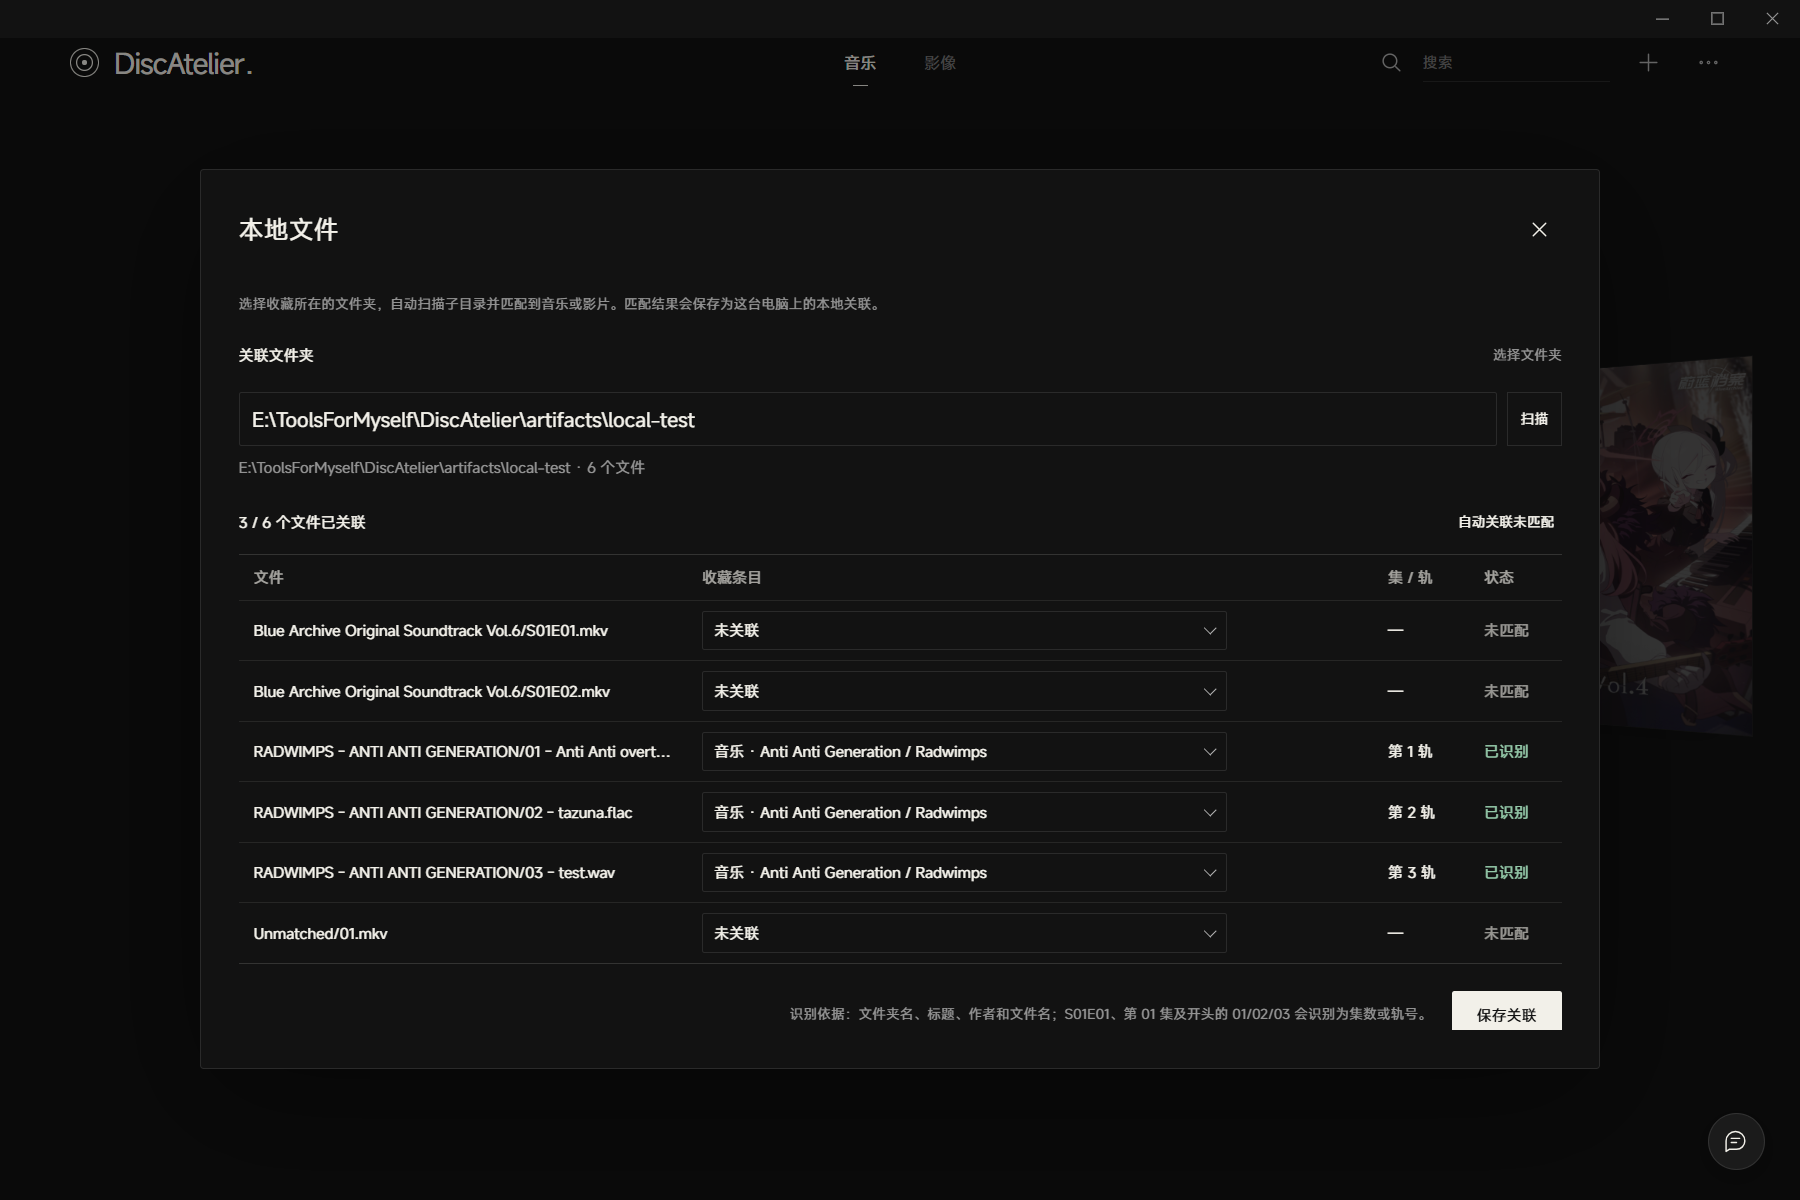
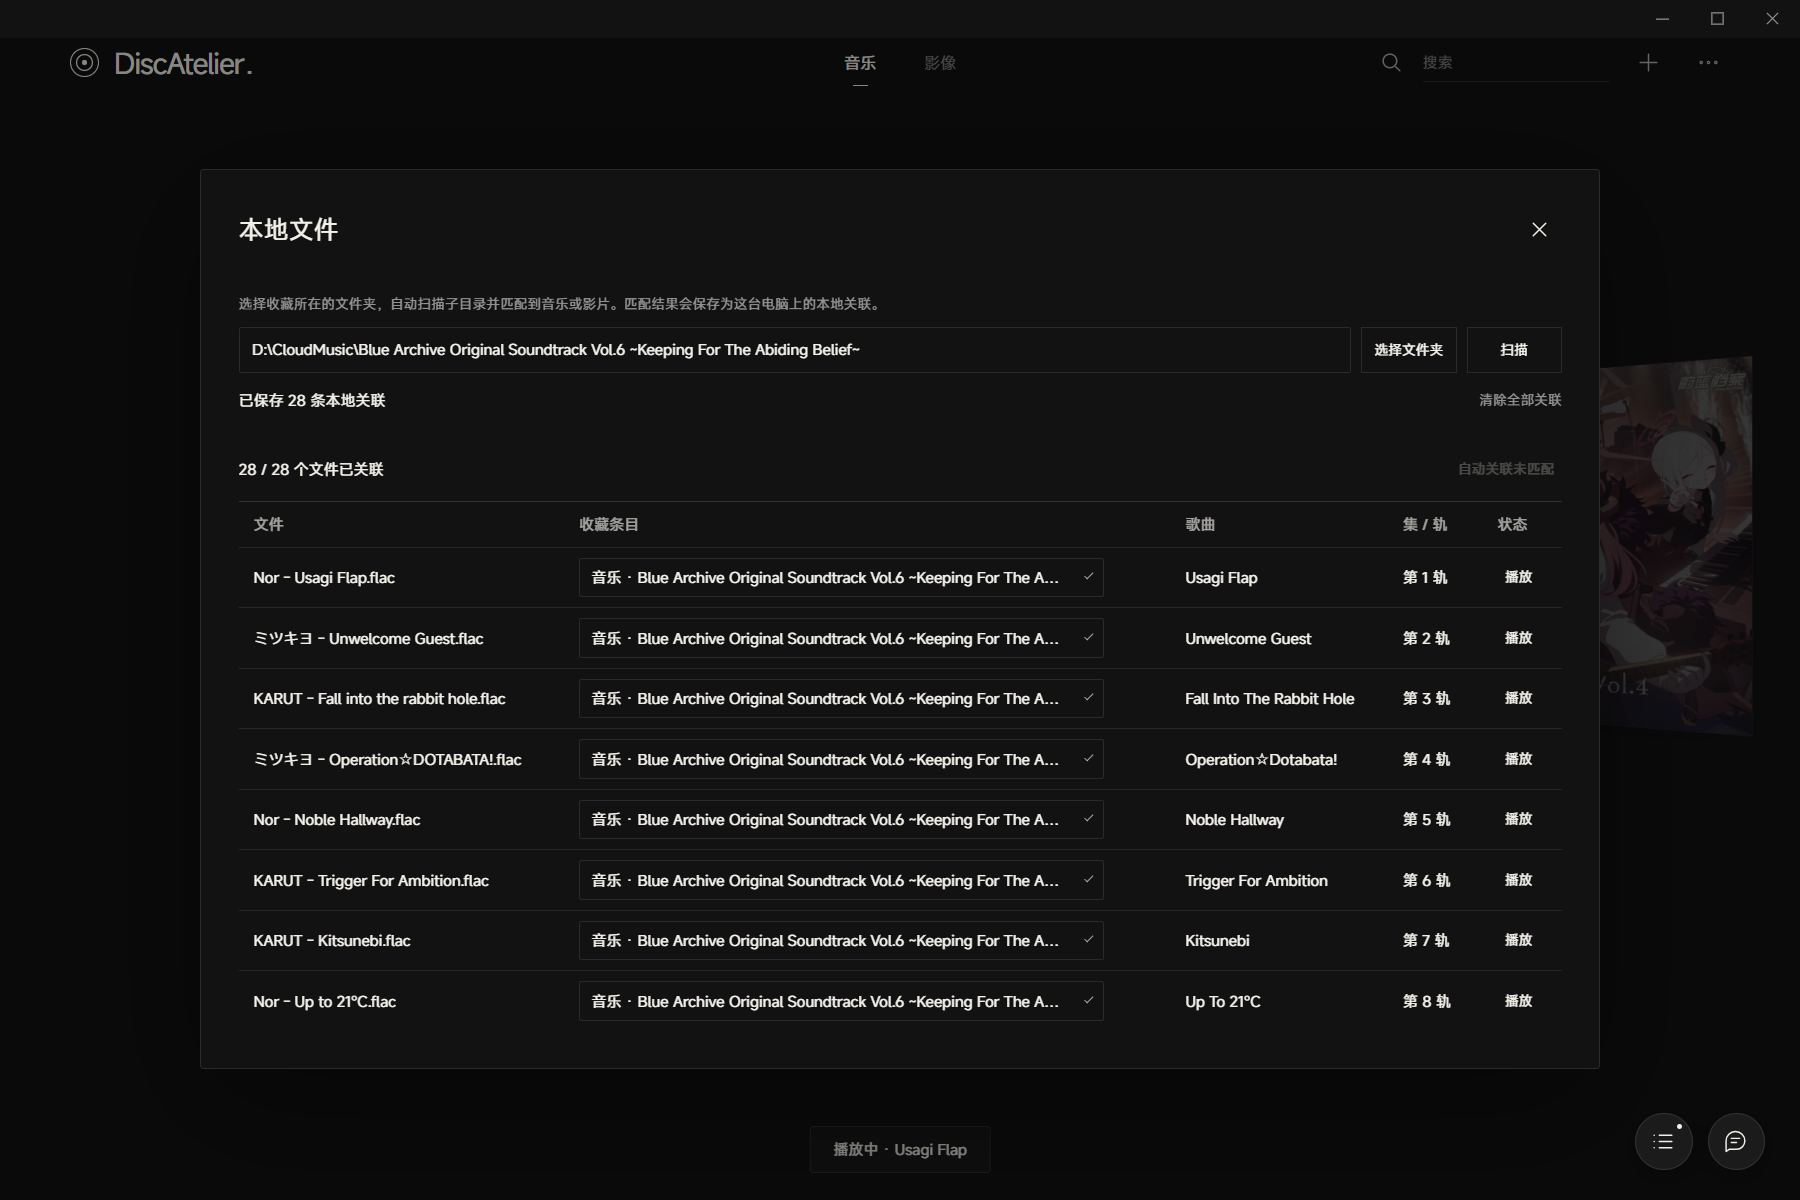
Show song titles in album order and restore detail

diff --git a/apps/desktop/src/local/LocalItemPanel.tsx b/apps/desktop/src/local/LocalItemPanel.tsx
@@ -26,6 +26,18 @@ interface Row {
   title: string;
 }
 
+function savedTitle(binding: Binding) {
+  const parts = binding.label.split(' · ');
+  return parts.length > 2 ? parts[parts.length - 1] : '';
+}
+
+function sortRows(values: Row[]) {
+  return [...values].sort((left, right) => {
+    const number = (Number(left.number) || Number.MAX_SAFE_INTEGER) - (Number(right.number) || Number.MAX_SAFE_INTEGER);
+    return number || left.file.relativePath.localeCompare(right.file.relativePath);
+  });
+}
+
 function matchRow(item: LibraryCopy, file: ScannedFile, tracks: TrackTitle[]) {
   if (item.edition.categoryId === 'music' || isAudio(file)) {
     const matched = matchTrack(file.name, tracks);
@@ -71,13 +83,14 @@ export function LocalItemPanel({ item, onClose }: { item: LibraryCopy; onClose()
   }, [item.editionId, item.edition.categoryId]);
   useEffect(() => {
     if (!tracks.length) return;
-    setRows(current => current.map(row => {
+    setRows(current => sortRows(current.map(row => {
       const matched = matchRow(item, row.file, tracks);
       return { ...row, number: row.number || matched.number, title: row.title || matched.title };
-    }));
+    })));
   }, [tracks, item]);
 
-  const own = all.filter(binding => binding.copyId === item.id);
+  const own = all.filter(binding => binding.copyId === item.id)
+    .sort((left, right) => (left.track || Number.MAX_SAFE_INTEGER) - (right.track || Number.MAX_SAFE_INTEGER));
 
   async function scan(path: string) {
     if (!path.trim()) return;
@@ -85,7 +98,7 @@ export function LocalItemPanel({ item, onClose }: { item: LibraryCopy; onClose()
     try {
       const scanned = await invoke<ScannedFile[]>('local_files_scan', { folder: path });
       setFiles(scanned);
-      setRows(scanned.map(file => ({ file, ...matchRow(item, file, tracks) })));
+      setRows(sortRows(scanned.map(file => ({ file, ...matchRow(item, file, tracks) }))));
       if (!scanned.length) setError('这个文件夹里没有找到支持的音视频文件。');
     } catch (cause) {
       setError(cause instanceof Error ? cause.message : String(cause));
@@ -140,7 +153,7 @@ export function LocalItemPanel({ item, onClose }: { item: LibraryCopy; onClose()
   return <Modal title={`本地文件 · ${item.edition.title}`} onClose={onClose} wide busy={busy} className="local-files-panel">
     <div className="local-files-settings">
       <p className="setting-hint">这个文件夹只关联到当前收藏。每个文件可以单独填写集数或轨号；保存后从这里直接播放。</p>
-      <FolderPicker value={folder} onChange={setFolder} busy={busy} count={files.length}
+      <FolderPicker value={folder} onChange={setFolder} busy={busy}
         onBrowse={() => void chooseFolder()} onScan={() => void scan(folder)}/>
     </div>
     {error && <p className="form-error" role="alert">{error}</p>}
@@ -151,24 +164,23 @@ export function LocalItemPanel({ item, onClose }: { item: LibraryCopy; onClose()
         const next = all.filter(binding => binding.copyId !== item.id);
         void invoke('local_files_save', { bindings: next }).then(() => setAll(next)).catch(cause => setError(cause instanceof Error ? cause.message : String(cause)));
       }}>清除本收藏关联</button></div>
-      <div className="local-files-table-wrap"><table className="local-files-table"><thead><tr><th>文件</th><th>位置</th><th>操作</th></tr></thead><tbody>
+      <div className="local-files-table-wrap"><table className="local-files-table"><thead><tr><th>文件</th><th>位置</th><th>歌曲</th><th>操作</th></tr></thead><tbody>
         {own.map(binding => <tr key={binding.path}><td title={binding.path}><span>{binding.path.split(/[\\/]/).pop()}</span></td>
           <td>{binding.episode ? `第 ${binding.episode} 集` : binding.track ? `第 ${binding.track} 轨` : '—'}</td>
+          <td><span className="local-track-title">{savedTitle(binding) || '—'}</span></td>
           <td><button type="button" className="text-button" disabled={busy} onClick={() => void play(binding.path)}>播放</button></td></tr>)}
       </tbody></table></div>
     </>}
     {!!files.length && <>
       <div className="local-files-summary"><span>{rows.length} 个文件将关联到当前收藏</span></div>
-      <div className="local-files-table-wrap"><table className="local-files-table"><thead><tr><th>文件</th><th>{item.edition.categoryId === 'video' ? '集数' : '轨号 · 匹配曲目'}</th><th>操作</th></tr></thead><tbody>
+      <div className="local-files-table-wrap"><table className="local-files-table"><thead><tr><th>文件</th><th>{item.edition.categoryId === 'video' ? '集数' : '轨号'}</th><th>关联歌曲</th><th>操作</th></tr></thead><tbody>
         {rows.map((row, index) => <tr key={row.file.path}>
           <td title={row.file.relativePath}><span>{row.file.relativePath}</span></td>
-          <td><div className="local-track-cell">
-            <input type="number" min="1" max="9999" aria-label={`${row.file.name} 的${item.edition.categoryId === 'video' ? '集数' : '轨号'}`} value={row.number}
-              onChange={event => setRows(current => current.map((value, position) => position === index ? { ...value, number: event.target.value } : value))}/>
-            {item.edition.categoryId === 'music' && (row.title
-              ? <span className="local-track-title" title={row.title}>{row.title}</span>
-              : <span className={row.number ? 'local-track-manual' : 'local-files-miss'}>{row.number ? '手动填写' : '未匹配到曲目'}</span>)}
-          </div></td>
+          <td><input type="number" min="1" max="9999" aria-label={`${row.file.name} 的${item.edition.categoryId === 'video' ? '集数' : '轨号'}`} value={row.number}
+            onChange={event => setRows(current => current.map((value, position) => position === index ? { ...value, number: event.target.value } : value))}/></td>
+          <td>{item.edition.categoryId === 'music' && row.title
+            ? <span className="local-track-title" title={row.title}>{row.title}</span>
+            : <span className={row.number ? 'local-track-manual' : 'local-files-miss'}>{row.number ? '手动填写' : '未匹配到曲目'}</span>}</td>
           <td><button type="button" className="text-button" disabled={busy} onClick={() => setRows(current => current.filter((_, position) => position !== index))}>移除</button></td>
         </tr>)}
       </tbody></table></div>

diff --git a/apps/desktop/src/local/LocalFilesPanel.tsx b/apps/desktop/src/local/LocalFilesPanel.tsx
@@ -76,13 +76,26 @@ export function LocalFilesPanel({ onClose }: { onClose(): void }) {
     return { number: parseTrack(file.name), title: '' };
   }
 
+  function sortRows(values: Row[]) {
+    return [...values].sort((left, right) => {
+      if (!left.copyId || !right.copyId) {
+        if (left.copyId) return -1;
+        if (right.copyId) return 1;
+        return left.file.relativePath.localeCompare(right.file.relativePath);
+      }
+      const album = items.findIndex(item => item.id === left.copyId) - items.findIndex(item => item.id === right.copyId);
+      const track = (left.track || left.episode || Number.MAX_SAFE_INTEGER) - (right.track || right.episode || Number.MAX_SAFE_INTEGER);
+      return album || track || left.file.relativePath.localeCompare(right.file.relativePath);
+    });
+  }
+
   function propose(scanned: ScannedFile[]) {
-    setRows(scanned.map(file => {
+    setRows(sortRows(scanned.map(file => {
       const item = chooseItem(items, file, false, trackTitles);
       const episode = item && item.edition.categoryId === 'video' ? parseEpisode(file.name) : null;
       const track = item && item.edition.categoryId === 'music' ? trackFor(item.id, file) : { number: null, title: '' };
       return { file, copyId: item?.id || '', episode, track: track.number, trackTitle: track.title, matched: !!item };
-    }));
+    })));
   }
 
   async function scan(path: string) {
@@ -111,6 +124,10 @@ export function LocalFilesPanel({ onClose }: { onClose(): void }) {
         track: item.edition.categoryId === 'music' ? trackFor(item.id, row.file).number : null,
         trackTitle: item.edition.categoryId === 'music' ? trackFor(item.id, row.file).title : '',
       };
+    }).sort((left, right) => {
+      if (!left.copyId || !right.copyId) return left.copyId ? -1 : right.copyId ? 1 : 0;
+      const album = items.findIndex(item => item.id === left.copyId) - items.findIndex(item => item.id === right.copyId);
+      return album || (left.track || left.episode || Number.MAX_SAFE_INTEGER) - (right.track || right.episode || Number.MAX_SAFE_INTEGER);
     }));
   }, [trackTitles, files, items]);
 
@@ -151,7 +168,7 @@ export function LocalFilesPanel({ onClose }: { onClose(): void }) {
   }
 
   function updateRow(index: number, copyId: string) {
-    setRows(current => current.map((row, position) => {
+    setRows(current => sortRows(current.map((row, position) => {
       if (position !== index) return row;
       const category = items.find(item => item.id === copyId)?.edition.categoryId || '';
       return {
@@ -162,11 +179,11 @@ export function LocalFilesPanel({ onClose }: { onClose(): void }) {
         track: category === 'music' ? trackFor(copyId, row.file).number : null,
         trackTitle: category === 'music' ? trackFor(copyId, row.file).title : '',
       };
-    }));
+    })));
   }
 
   function autoAssociate() {
-    setRows(current => current.map(row => {
+    setRows(current => sortRows(current.map(row => {
       if (row.copyId) return row;
       const item = chooseItem(items, row.file, true, trackTitles);
       if (!item) return row;
@@ -178,7 +195,7 @@ export function LocalFilesPanel({ onClose }: { onClose(): void }) {
         track: item.edition.categoryId === 'music' ? trackFor(item.id, row.file).number : null,
         trackTitle: item.edition.categoryId === 'music' ? trackFor(item.id, row.file).title : '',
       };
-    }));
+    })));
   }
 
   function forget() {
@@ -192,7 +209,7 @@ export function LocalFilesPanel({ onClose }: { onClose(): void }) {
   return <Modal title="本地文件" onClose={onClose} wide busy={busy} className="local-files-panel">
     <div className="local-files-settings">
       <p className="setting-hint">选择收藏所在的文件夹，自动扫描子目录并匹配到音乐或影片。匹配结果会保存为这台电脑上的本地关联。</p>
-      <FolderPicker value={folder} onChange={setFolder} busy={busy} count={files.length}
+      <FolderPicker value={folder} onChange={setFolder} busy={busy}
         onBrowse={() => void chooseFolder()} onScan={() => void scan(folder)}/>
       {!!bindings.length && <div className="setting-row">
         <span>已保存 {bindings.length} 条本地关联</span>
@@ -208,7 +225,7 @@ export function LocalFilesPanel({ onClose }: { onClose(): void }) {
       </div>
       <div className="local-files-table-wrap">
         <table className="local-files-table">
-          <thead><tr><th>文件</th><th>收藏条目</th><th>集 / 轨</th><th>状态</th></tr></thead>
+          <thead><tr><th>文件</th><th>收藏条目</th><th>歌曲</th><th>集 / 轨</th><th>状态</th></tr></thead>
           <tbody>
             {rows.map((row, index) => {
               const item = items.find(entry => entry.id === row.copyId);
@@ -224,9 +241,8 @@ export function LocalFilesPanel({ onClose }: { onClose(): void }) {
                     })),
                   ]}
                   onChange={value => updateRow(index, value)}/></td>
-                <td>{row.episode ? `第 ${row.episode} 集` : row.track
-                  ? <span className="local-track-cell"><span>第 {row.track} 轨</span>{row.trackTitle && <span className="local-track-title" title={row.trackTitle}>{row.trackTitle}</span>}</span>
-                  : '—'}</td>
+                <td><span className="local-track-title" title={row.trackTitle || undefined}>{row.trackTitle || '—'}</span></td>
+                <td>{row.episode ? `第 ${row.episode} 集` : row.track ? `第 ${row.track} 轨` : '—'}</td>
                 <td>{saved ? <button type="button" className="text-button" disabled={busy} onClick={() => void saveAndPlay(row)}>播放</button> : item ? <span className="local-files-ok">已识别</span> : <span className="local-files-miss">未匹配</span>}</td>
               </tr>;
             })}

diff --git a/apps/desktop/src/local/FolderPicker.tsx b/apps/desktop/src/local/FolderPicker.tsx
@@ -1,22 +1,17 @@
-export function FolderPicker({ value, onChange, onScan, onBrowse, busy, count }: {
+export function FolderPicker({ value, onChange, onScan, onBrowse, busy }: {
   value: string;
   onChange(value: string): void;
   onScan(): void;
   onBrowse(): void;
   busy: boolean;
-  count: number;
 }) {
   return <div className="local-folder-picker">
-    <div className="setting-row">
-      <span>关联文件夹</span>
-      <button type="button" className="text-button" disabled={busy} onClick={onBrowse}>选择文件夹</button>
-    </div>
     <div className="path-input">
       <input aria-label="文件夹路径" value={value} onChange={event => onChange(event.target.value)}
         onKeyDown={event => { if (event.key === 'Enter') { event.preventDefault(); onScan(); } }}
-        placeholder="粘贴文件夹路径，或从上方选择" spellCheck={false} disabled={busy}/>
+        placeholder="粘贴文件夹路径" spellCheck={false} disabled={busy}/>
+      <button type="button" className="text-button" disabled={busy} onClick={onBrowse}>选择文件夹</button>
       <button type="button" className="text-button" disabled={busy || !value.trim()} onClick={onScan}>扫描</button>
     </div>
-    <p className="data-path">{value || '尚未选择文件夹'}{count ? ` · ${count} 个文件` : ''}</p>
   </div>;
 }

diff --git a/apps/desktop/src/App.tsx b/apps/desktop/src/App.tsx
@@ -51,6 +51,7 @@ export function App() {
   const [localFilesOpen, setLocalFilesOpen] = useState(false);
   const [opticalPrompt, setOpticalPrompt] = useState<OpticalPresence | null>(null);
   const knownOptical = useRef(new Set<string>());
+  const detailBeforePlayback = useRef<LibraryCopy | null>(null);
   const [settingsPage, setSettingsPage] = useState<'home' | 'discogs' | null>(null);
   const [restoring, setRestoring] = useState(false);
   const [metadataOpen, setMetadataOpen] = useState(false);
@@ -141,6 +142,14 @@ export function App() {
   const currentVideo = useVideoMetadata(current?.editionId || '',current?.editionRevision || 0,current?.edition.categoryId === 'video');
   const [partId,setPartId] = useState(''), [instantFlip,setInstantFlip] = useState(false);
   useEffect(() => {setPartId('');},[inspected?.id]);
+  useEffect(() => {
+    if (player.open) {
+      if (inspected) detailBeforePlayback.current = inspected;
+      return;
+    }
+    if (!inspected && detailBeforePlayback.current) setInspected(detailBeforePlayback.current);
+    detailBeforePlayback.current = null;
+  }, [player.open, inspected]);
   useEffect(() => {
     const present = new Set(opticalPresence.map(value => value.mediaToken));
     for (const value of opticalPresence) {

diff --git a/apps/desktop/src/styles/desktop.css b/apps/desktop/src/styles/desktop.css
@@ -73,7 +73,9 @@ input:focus, input:focus-visible, textarea:focus, textarea:focus-visible { outli
 .local-files-summary { display: flex; align-items: center; justify-content: space-between; gap: 18px; }
 .local-files-settings { margin-block: 8px 20px; }
 .local-files-settings .path-input { margin-top: 8px; }
-.local-files-settings .path-input input { background: transparent; border: 1px solid var(--line); border-radius: 2px; padding: 10px; color: var(--ink); }
+.local-files-settings .path-input input { background: transparent; border: 1px solid var(--line); border-radius: 2px; padding: 9px 10px; color: var(--ink); font-size: 12px; line-height: 1.4; min-height: 36px; }
+.local-files-settings .path-input input::placeholder { font-size: 12px; }
+.local-files-settings .path-input .text-button { min-width: 76px; justify-content: center; }
 .local-files-settings .data-path { margin: 6px 0 0; min-height: 18px; color: var(--muted); }
 .local-files-path { margin: 8px 0 0; font-size: 12px; opacity: .7; overflow-wrap: anywhere; }
 .local-files-path-row { display: flex; align-items: center; gap: 8px; margin-top: 10px; }

diff --git a/ROADMAP.md b/ROADMAP.md
@@ -1,6 +1,6 @@
 # DiscAtelier 更新路线
 
[2 lines of base64/hex data omitted]
 
[1 lines of base64/hex data omitted]
 

diff --git a/docs/LOCAL-FILES.md b/docs/LOCAL-FILES.md
@@ -10,7 +10,7 @@
    - `.flac`、`.wav`、`.mp3` 等音频只匹配音乐收藏；
    - `.mkv`、`.mp4`、`.m2ts` 等视频只匹配影像收藏；
    - 标题或作者词元至少命中一个才会自动关联，避免把所有文件塞给第一套收藏。
-4. 关联表允许逐行改选收藏。未匹配行可以点击“自动关联未匹配”补一个候选，再人工核对。
+4. 关联表允许逐行改选收藏，并按专辑轨号顺序展示；未匹配行放在末尾，可以点击“自动关联未匹配”补一个候选，再人工核对。
 5. “保存关联”写入数据目录的 `local-files.json`。从已保存行点击“播放”会调用 MPV 打开本地文件。
 6. 详情页的“本地文件”只替换当前收藏的绑定，保留其他收藏；每个文件旁的数字框可以单独改集数或轨号，留空表示只绑定文件。
 7. 曲目列表每行末尾显示本地播放符号；有网易云歌曲匹配时再显示白色网易云播放按钮。章节列表每行显示本地播放符号；章节本身没有网易云歌曲身份，因此不伪造网易云按钮。
@@ -26,7 +26,7 @@
 - 文件名开头的 `03` → 第 3 集；
 - `CD03`、`Disc 3`、`Track 12` → 对应轨号；
 - `03 - 曲名` → 第 3 轨；
-- `艺人 - 歌名` 没有数字前缀时，读取当前收藏的专辑曲目表，按歌名匹配后填入对应轨号，并在轨号旁显示匹配到的曲目名；
+- `艺人 - 歌名` 没有数字前缀时，读取当前收藏的专辑曲目表，按歌名匹配后填入对应轨号，并在关联表中单独显示匹配到的歌曲标题；
 - 多碟专辑按曲目表顺序编号；单碟中唯一的 position 直接使用原轨号。
 
 集数或轨号写入关联标签（如“租借女友 · 第 3 集”），同一收藏可以关联多个文件。播放时从关联表选择具体文件。
